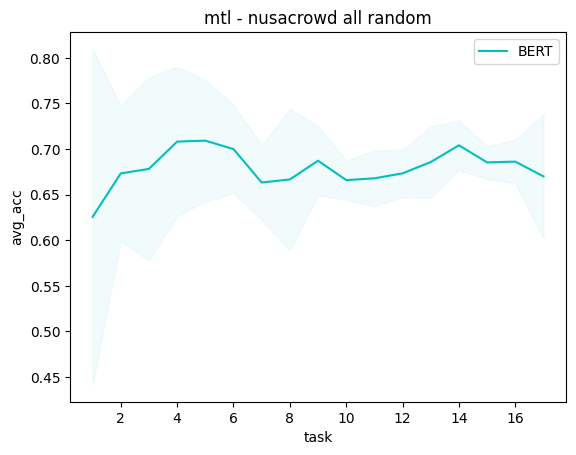
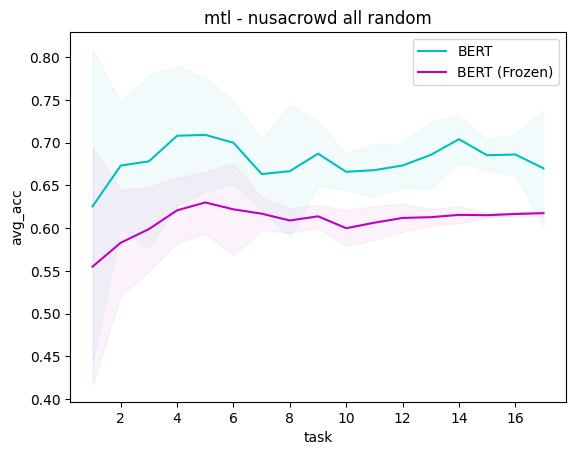
update result

diff --git a/src/utils.py b/src/utils.py
@@ -928,28 +928,28 @@ if __name__ == "__main__":
     #         visualize('', row['exp_id'], f"res/til_classification/nusacrowd/{row['exp_id']} - {row['backbone']}_{row['baseline']}_.txt/{row['backbone']}_{row['baseline']}_.txt", 'nusacrowd_all_random', 'nusacrowd')
     
     # create viz for backbone and baseline combination
-    # list_create_viz = [
-    #     # multi_baseline
-    #     [['bert'], ['mtl', 'one', 'ncl', 'ewc', 'a-gem'], 'multi_baseline'],
-    #     [['bert_frozen'], ['one', 'a-gem', 'hat', 'ncl', 'ewc'], 'multi_baseline'],
+    list_create_viz = [
+        # multi_baseline
+        [['bert'], ['mtl', 'one', 'ncl', 'ewc', 'a-gem'], 'multi_baseline'],
+        [['bert_frozen'], ['mtl', 'one', 'a-gem', 'hat', 'ncl', 'ewc'], 'multi_baseline'],
         
-    #     # multi_backbone
-    #     [['bert_frozen', 'bert'], ['a-gem'], 'multi_backbone'],
-    #     [['bert_frozen', 'bert'], ['ewc'], 'multi_backbone'],
-    #     [['bert_frozen'], ['hat'], 'multi_backbone'],
-    #     [['bert'], ['mtl'], 'multi_backbone'],
-    #     [['bert', 'bert_frozen'], ['ncl'], 'multi_backbone'],
-    #     [['bert', 'bert_frozen'], ['one'], 'multi_backbone']
-    # ]
+        # multi_backbone
+        [['bert', 'bert_frozen'], ['a-gem'], 'multi_backbone'],
+        [['bert', 'bert_frozen'], ['ewc'], 'multi_backbone'],
+        [['bert', 'bert_frozen'], ['hat'], 'multi_backbone'],
+        [['bert', 'bert_frozen'], ['mtl'], 'multi_backbone'],
+        [['bert', 'bert_frozen'], ['ncl'], 'multi_backbone'],
+        [['bert', 'bert_frozen'], ['one'], 'multi_backbone']
+    ]
     
-    # for elmt in list_create_viz:
-    #     run_create_viz(elmt[0], elmt[1], 'nusacrowd all random', elmt[2])
+    for elmt in list_create_viz:
+        run_create_viz(elmt[0], elmt[1], 'nusacrowd all random', elmt[2])
     
     # recalculate an experiment
     # calculate_metrics(81, 'bert_adapter', 'a-gem')
     
     # recalculate all experiments        
-    calculate_metrics(list_exp.iterrows())
+    # calculate_metrics(list_exp.iterrows())
     
     # get worst forgetting
     # with open('res/til_classification/result_transfer_cl.csv', 'a', newline='') as fp:
